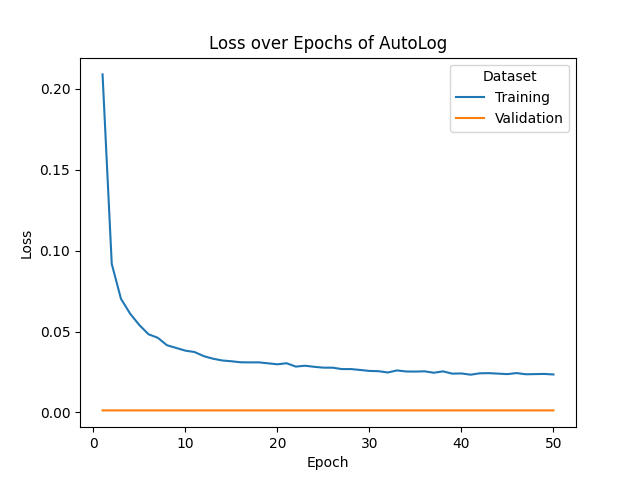
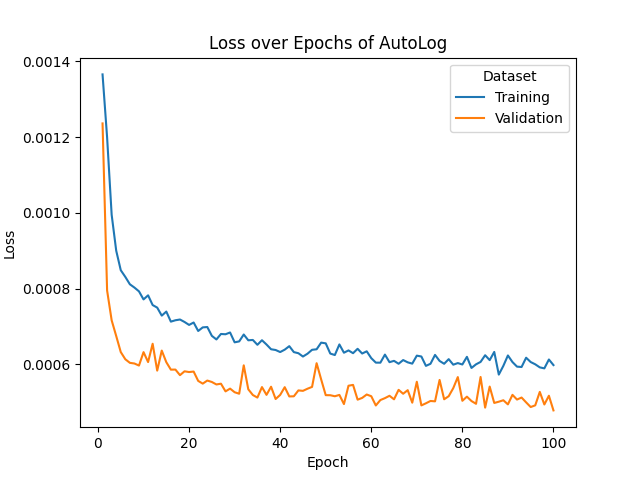
increase cldtlog sample count

diff --git a/util/datasets.py b/util/datasets.py
@@ -52,17 +52,17 @@ def _read_transform_cldt_bgl(bgl_path: Path, device: torch.device = torch.device
     bgl_dataset_preprocessed = bgl_path / "preprocessed.cldt.h5"
 
     with h5py.File(bgl_dataset_preprocessed, "r") as fp:
-        norm_iids = np.array(fp["data"]["normative"]["input_ids"][:30355], dtype=np.uint16)
-        norm_ams = np.array(fp["data"]["normative"]["attention_mask"][:30355], dtype=np.uint8)
+        norm_iids = np.array(fp["data"]["normative"]["input_ids"][:30355*16], dtype=np.uint16)
+        norm_ams = np.array(fp["data"]["normative"]["attention_mask"][:30355*16], dtype=np.uint8)
 
-        anom_iids = np.array(fp["data"]["anomalous"]["input_ids"][:2640], dtype=np.uint16)
-        anom_ams = np.array(fp["data"]["anomalous"]["attention_mask"][:2640], dtype=np.uint8)
+        anom_iids = np.array(fp["data"]["anomalous"]["input_ids"][:2640*16], dtype=np.uint16)
+        anom_ams = np.array(fp["data"]["anomalous"]["attention_mask"][:2640*16], dtype=np.uint8)
 
     # Distribution: Train: 60% | Val: 20% | Test: 20%
-    tsplit_norm_iids, test_norm_iids, tsplit_norm_ams, test_norm_ams = train_test_split(norm_iids, norm_ams, test_size=0.2)
+    tsplit_norm_iids, test_norm_iids, tsplit_norm_ams, test_norm_ams = train_test_split(norm_iids, norm_ams, test_size=0.94)
     train_norm_iids, val_norm_iids, train_norm_ams, val_norm_ams = train_test_split(tsplit_norm_iids, tsplit_norm_ams, test_size=0.25)
 
-    tsplit_anom_iids, test_anom_iids, tsplit_anom_ams, test_anom_ams = train_test_split(anom_iids, anom_ams, test_size=0.2)
+    tsplit_anom_iids, test_anom_iids, tsplit_anom_ams, test_anom_ams = train_test_split(anom_iids, anom_ams, test_size=0.94)
     train_anom_iids, val_anom_iids, train_anom_ams, val_anom_ams = train_test_split(tsplit_anom_iids, tsplit_anom_ams, test_size=0.25)
 
     train_iids = torch.vstack((

diff --git a/models/autolog.py b/models/autolog.py
@@ -48,7 +48,7 @@ class _AutoLogDecoder(nn.Module):
     def __init__(self, N: int) -> None:
         super().__init__()
 
-        self._l1_lambda = 10e-5
+        self._l1_lambda = 10e-8
 
         self.fc1 = nn.Linear(64, 128)
         self.act1 = nn.ReLU()
@@ -113,14 +113,15 @@ class AutoLogAutoencoder(nn.Module):
 
             for (batch_x,) in self.__datasets["train"]:
                 y, l1_loss = self(batch_x)
-                loss = loss_fn(y, batch_x) + l1_loss
+                loss_re = loss_fn(y, batch_x)
+                loss = loss_re + l1_loss
 
                 optim.zero_grad()
                 loss.backward()
                 optim.step()
 
-                train_loss += loss.mean().item()
-        
+                train_loss += loss_re.mean().item()
+            
             self.eval()
             with torch.no_grad():
                 y, l1_loss = self(self.__datasets["val"])

diff --git a/model_eval/__main__.py b/model_eval/__main__.py
@@ -42,7 +42,7 @@ def get_metrics(model, dataset: dict, chunked_evaluation_fn: Callable | None = N
         "Recall": TP/(TP+FN)
     }
 
-def chunked_cldtlog_evaluate(model, dataset, batch_size: int = 1_000, **kwargs) -> np.array:
+def chunked_cldtlog_evaluate(model, dataset, batch_size: int = 100, **kwargs) -> np.array:
     input_ids, input_ams = dataset
     results = np.zeros((len(input_ids), 1), dtype=np.float16)
     for i in tqdm(range(0, len(input_ids), batch_size)):
@@ -184,7 +184,6 @@ if __name__ == '__main__':
     al_logging_entities = ["R00", "R01", "R02", "R03", "R04", "R05", "R06", "R10", "R11"]
     al_scores_df = pd.read_csv(bgl_path / "preprocessed.al.csv")
     plot_al_kde(al_scores_df, al_logging_entities, outname=r".\figures\autolog_scores_kde.png")
-
 
     al_bgl_training = {"train_loss": [], "val_loss": []}
     al_bgl_classifier = train_autolog(

diff --git a/models/cldtlog.py b/models/cldtlog.py
@@ -98,6 +98,7 @@ class CLDTLog(nn.Module):
             if kwargs.get("log_val_loss") != None:
                 kwargs.get("log_val_loss").append(alpha*(val_loss_trip / val_loss_iters) + (1-alpha) * (val_loss_total / val_loss_iters))
 
+            torch.save(self.state_dict(), "mdl_tmp/cldtlog_{}.mdl".format(epoch+1))
             print("[INFO] Epoch {}/{} | Train Loss: {:.4f} | Val. Loss: {:.4f} | Val. Loss (TL): {:.4f} | Val. Loss (FL): {:.4f}".format(
                 epoch+1,
                 epochs,

diff --git a/model_eval/tr_eval_cldtlog.py b/model_eval/tr_eval_cldtlog.py
@@ -1,6 +1,5 @@
 from models.cldtlog import CLDTLog
 from transformers import BertModel
-from pathlib import Path
 
 import torch
 
@@ -18,6 +17,7 @@ def train_cldtlog(datasets: dict, epochs: int = 50, **kwargs) -> CLDTLog:
 
     # Alpha of 0.2 was determined to be the best fit in the CLDTLog paper
     model.train_batch(datasets, epochs=epochs, lr=learn_rate, alpha=0.2, **kwargs)
+    #model.load_state_dict(torch.load("mdl_tmp\\cldtlog_10.mdl"))
 
     return model
 

diff --git a/model_eval/tr_eval_autolog.py b/model_eval/tr_eval_autolog.py
@@ -1,7 +1,6 @@
 from models.autolog import AutoLogAutoencoder
-from pathlib import Path
 
-def train_autolog(datasets: dict, epochs: int = 50, **kwargs) -> AutoLogAutoencoder:
+def train_autolog(datasets: dict, epochs: int = 100, **kwargs) -> AutoLogAutoencoder:
     model = AutoLogAutoencoder(67, datasets)
     model.train_batch(epochs=epochs, **kwargs)
     return model
